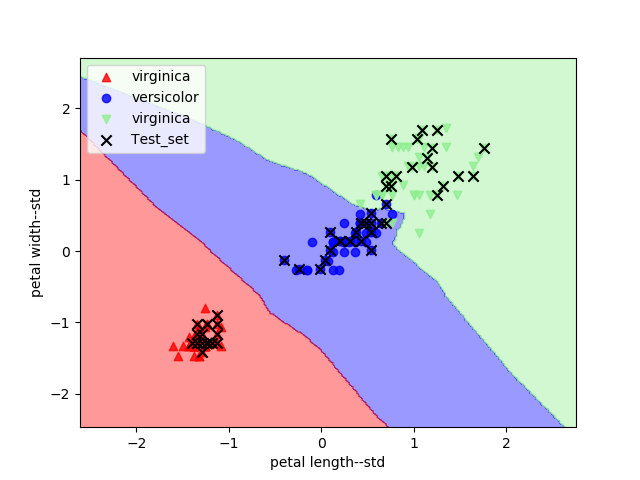
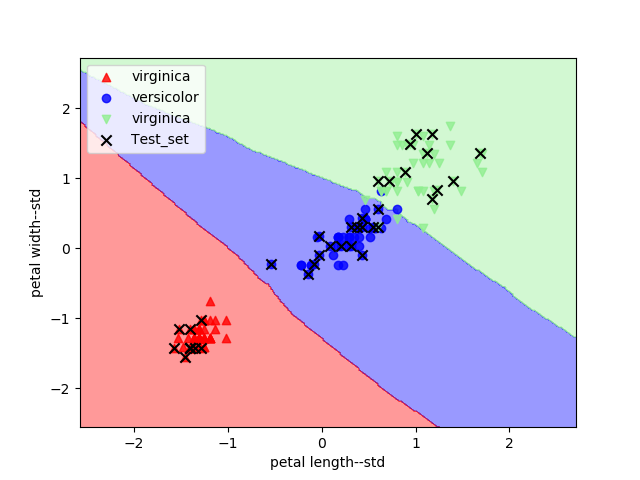
修改一些参数

diff --git a/irisdemo/dttest.py b/irisdemo/dttest.py
@@ -36,7 +36,7 @@ def visualize_data(x, y, feature_names):
             ax.set_xlabel(feature_names[row])
             ax.set_ylabel(feature_names[col])
     # 设置间距
-    fig.subplots_adjust(hspace=0.5, wspace=0.5)
+    fig.subplots_adjust(hspace=0.5, wspace=1)
     plt.savefig("./result/Comparison of Attribution")
     plt.show()
 
@@ -49,7 +49,7 @@ if __name__ == '__main__':
     y = iris.target
     visualize_data(x, y, iris.feature_names)
     # 将整个数据集划分为两个部分，其中训练集占0.75，测试集占0.25，加入random_state，保证每次划分是一样的
-    x_train, x_test, y_train, y_test = train_test_split(iris.data[:, [2, 3]], iris.target, test_size=0.4,
+    x_train, x_test, y_train, y_test = train_test_split(iris.data[:, [2, 3]], iris.target, test_size=0.25,
                                                         random_state=50)
 
     # 进行标准化处理

diff --git a/irisdemo/knntest.py b/irisdemo/knntest.py
@@ -19,7 +19,7 @@ import numpy as np
 # 导入数据集
 iris = load_iris()
 # 将整个数据划分为训练集和测试集两个部分，其中训练集0.75，测试集0.25
-X_train, X_test, Y_train, Y_test = train_test_split(iris.data[:, [2, 3]], iris.target, test_size=0.4, random_state=50)
+X_train, X_test, Y_train, Y_test = train_test_split(iris.data[:, [2, 3]], iris.target, test_size=0.25, random_state=50)
 
 # 将数据进行标准化处理，然后导入KNN模型进行训练
 ss = StandardScaler()
@@ -30,7 +30,7 @@ X_test = ss.fit_transform(X_test)
 k_range = list(xrange(1, 21, 2))
 test_accuracy = []
 for k in k_range:
-    knn = KNeighborsClassifier(n_neighbors=3)
+    knn = KNeighborsClassifier(n_neighbors=k)
     knn.fit(X_train, Y_train)
     y_predict = knn.predict(X_test)
     test_accuracy.append(knn.score(X_test, Y_test))
